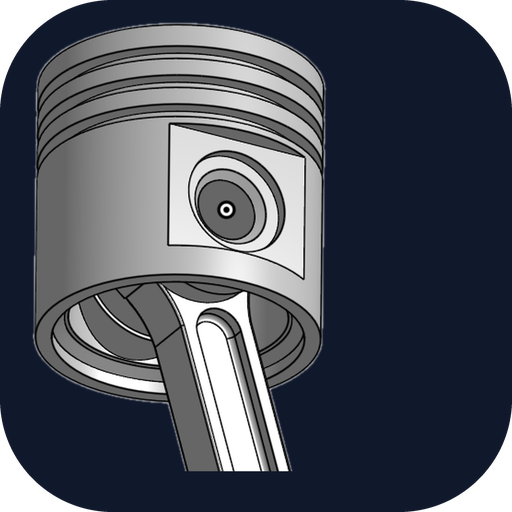
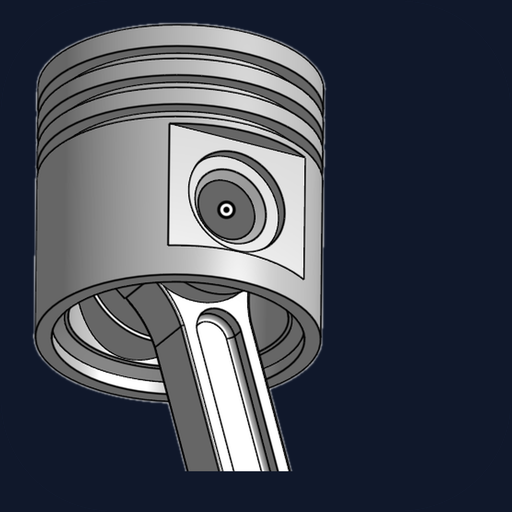
Add files via upload

diff --git a/index.html b/index.html
@@ -9,11 +9,12 @@
 <link rel="canonical" href="https://dan-oldja-portfolio.onrender.com/">
 
 <!-- Favicons -->
-<link rel="icon" href="/favicon.ico?v=3" sizes="32x32">
-<link rel="icon" href="/favicon-16x16.png?v=3" sizes="16x16" type="image/png">
-<link rel="icon" href="/favicon-32x32.png?v=3" sizes="32x32" type="image/png">
-<link rel="apple-touch-icon" href="/apple-touch-icon.png?v=3">
-<link rel="manifest" href="/site.webmanifest?v=3">
+<link rel="icon" href="/favicon.ico?v=4" sizes="32x32">
+<link rel="icon" href="/favicon-16x16.png?v=4" sizes="16x16" type="image/png">
+<link rel="icon" href="/favicon-32x32.png?v=4" sizes="32x32" type="image/png">
+<link rel="apple-touch-icon" sizes="180x180" href="/apple-touch-icon.png">
+<link rel="apple-touch-icon-precomposed" href="/apple-touch-icon-precomposed.png">
+<link rel="manifest" href="/site.webmanifest?v=4">
 <meta name="theme-color" content="#10182b">
 
 <!-- Open Graph -->
@@ -112,7 +113,7 @@
       <p class="caption">Figs.1,2 2nd place photo and CAD model of vehicle</p>
 
       <p class="mono">
-        For the Spring, 2026 semester, I had the opportunity to lead a team of five engineering students in a design competition where we were tasked with designing, testing and building an RC vehicle which could pick up and dispense balls of a variety of different sizes and masses. We worked as a team, collaborating on design choices and we worked together to solve various technical issues throughout the project. In the end, we earned a 2nd place spot out of the 23 design teams in the competition.      </p>
+        For the Spring, 2026 semester, I had the opportunity to lead a team of four engineering students in a design competition where we were tasked with designing, testing and building an RC vehicle which could pick up and dispense balls of a variety of different sizes and masses. We worked as a team, collaborating on design choices and we worked together to solve various technical issues throughout the project. In the end, we earned a 2nd place spot out of the 23 design teams in the competition.      </p>
 
       <h4>My focus within the project</h4>
       <p class="mono">
